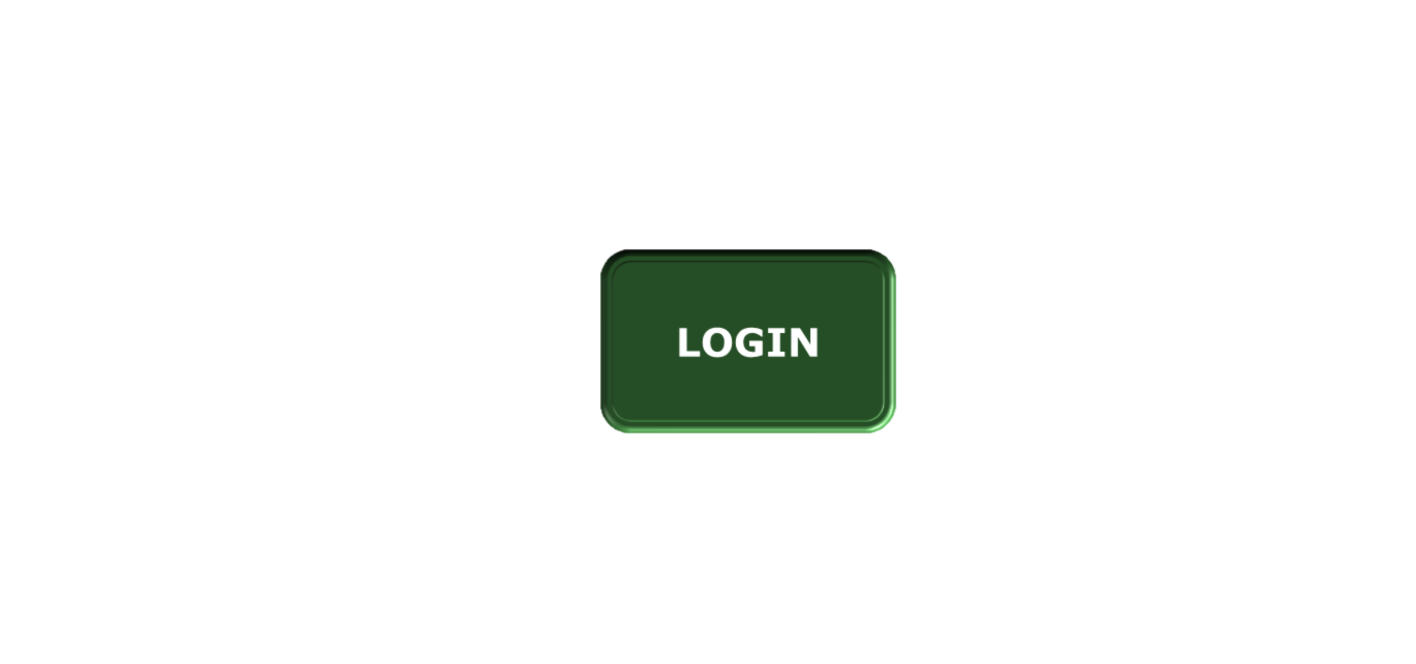
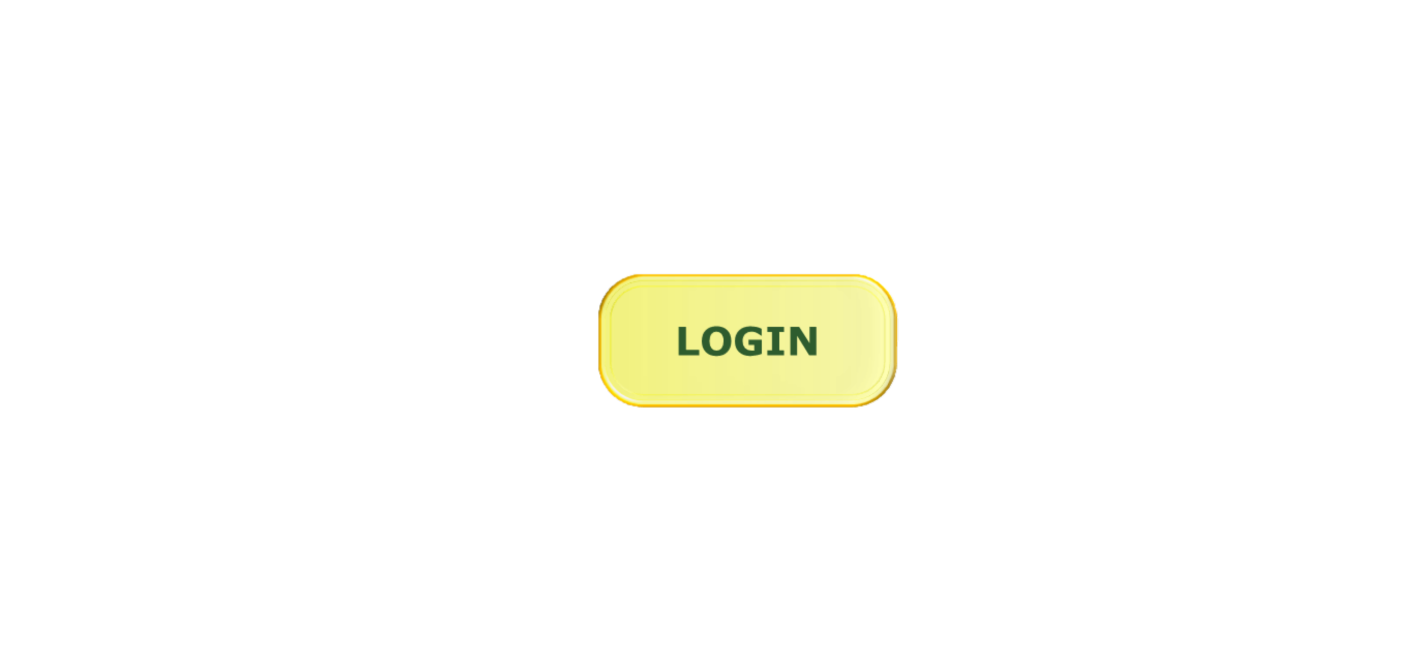
.

Changed region(s): [[0.404, 0.3614, 0.6525, 0.6627]]

diff --git a/estilos/visual.css b/estilos/visual.css
@@ -7,7 +7,8 @@
 }
 
 :root {
-    --cor0: #c5ebd6;
+        --cor0: #f4f8f6;
+        --verdefundo: #06690D;
         --verFolha: #01DC02;
         --roxoassai: #862D5A; 
         --verEscuro: #2E5C2E; 
@@ -86,8 +87,7 @@
     transition: transform 0.3s ease;
 }
 
-.
-}
+
 .imgLinks a img:hover {
     transform: scale(2.1); /* Efeito de hover para aumentar ligeiramente a imagem */
 }
@@ -253,7 +253,7 @@ body, html {
 body {
     margin: 40px;
     padding: 20px;
-    background-color: var(--cor0;
+    background-color: var(--cor0);
     color: #333;
     
 }

diff --git a/vamoInicial.html b/vamoInicial.html
@@ -8,6 +8,8 @@
     <title>Entrada</title>
 </head>
 <body>
+    <section id="cabeçalho"><img src="Imagens/logovamo325x132.png" alt=""></section>
+    
     <section id="imgLinks">
         <a href="index.html">
             <img src="Imagens/loginbutton.png" alt="">
